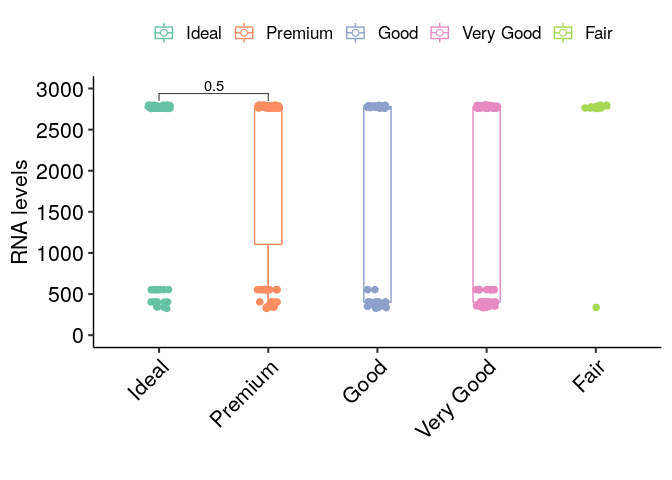
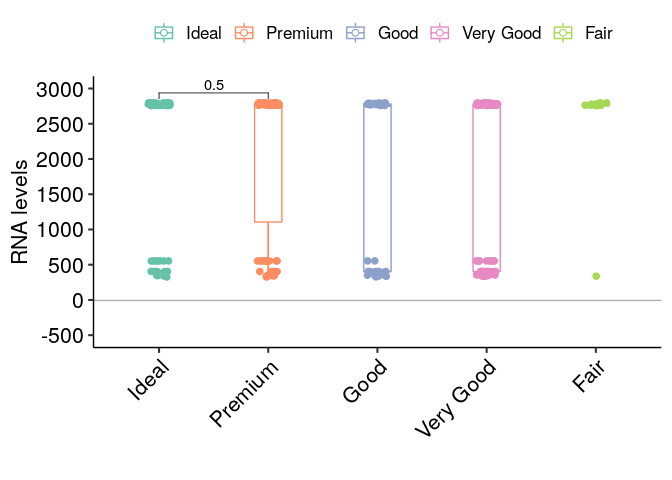
- v0.1.2 bump removed osx from travis

diff --git a/README.md b/README.md
@@ -49,7 +49,6 @@ launch_qpcrplots()
 
 ``` r
 plot_boxplot(df)
-#> Warning: Removed 1 rows containing missing values (geom_hline).
 #> Warning: Removed 300 rows containing missing values (geom_point).
 #> Warning: Removed 9 rows containing missing values (geom_signif).
 ```
